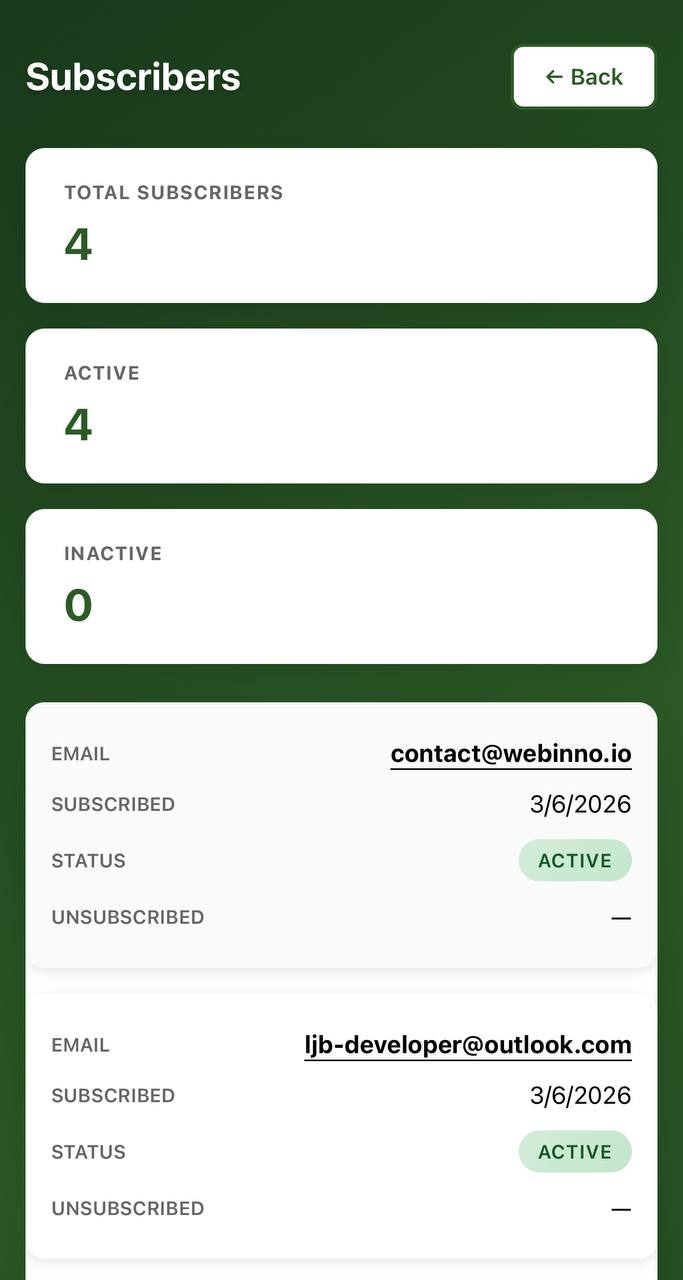
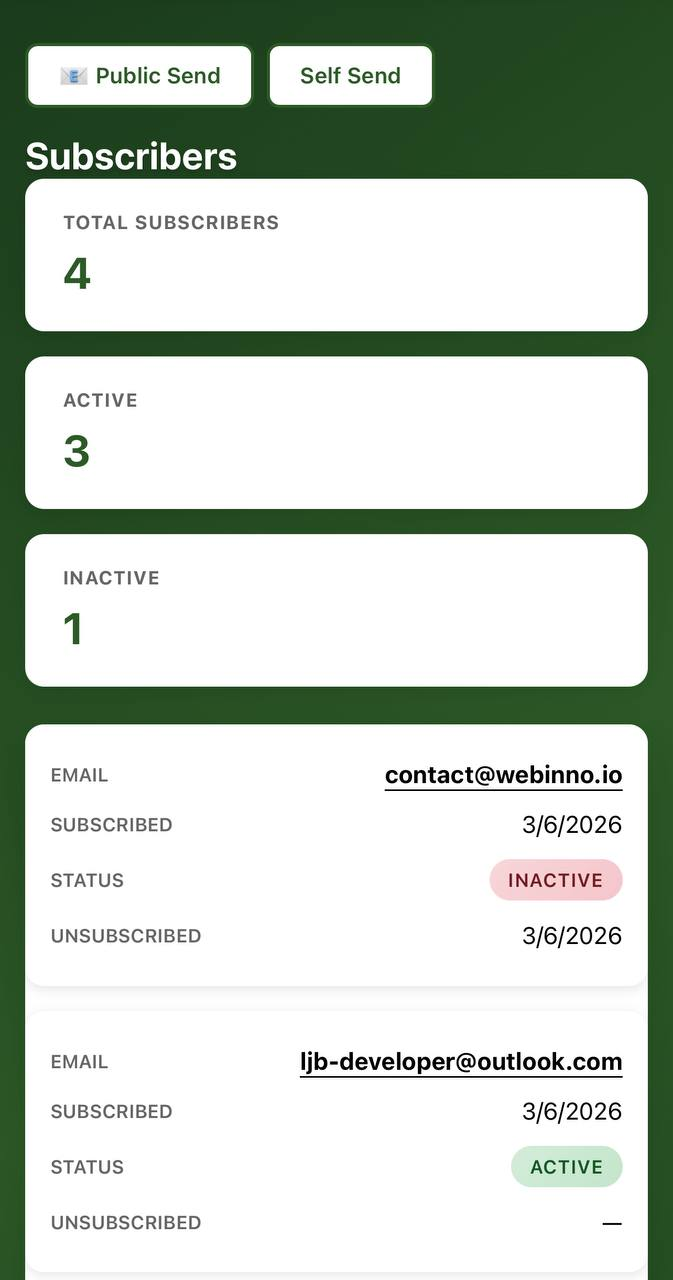
Replace screenshot 18 with updated version, add Public/Self Send description

Changed region(s): [[0.0312, 0.0312, 0.9673, 0.75], [0.4368, 0.8125, 0.9361, 0.9375], [0.0624, 0.8125, 0.312, 0.9688]]

diff --git a/README.md b/README.md
@@ -94,7 +94,7 @@ Subscribe to the blog with email. Includes anti-bot CAPTCHA protection.
 ![Subscribe Form](docs/17-subscribe-form.jpg)
 
 ### 18. Subscriber Management
-View and manage all email subscribers from the admin CPanel. Shows total, active, and inactive subscriber counts with a detailed list.
+View and manage all email subscribers. Public Send sends the latest post to all subscribers. Self Send sends only to you for testing before sending publicly.
 ![Subscribers Admin](docs/18-subscribers-admin.jpg)
 
 ### 19. Unsubscribe Page
